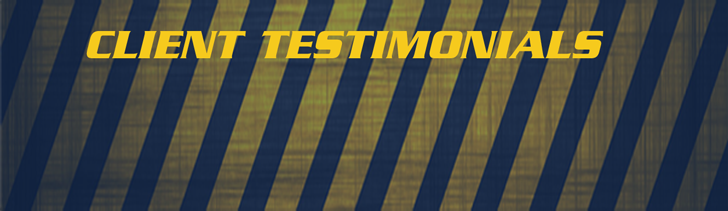
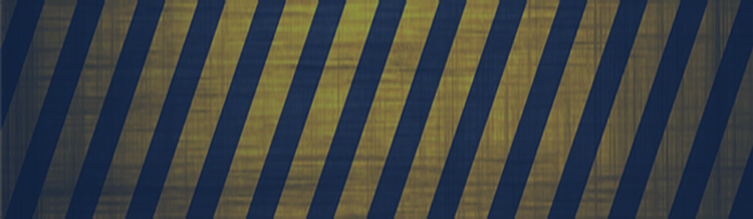
changes

Changed region(s): [[0.1209, 0.1422, 0.8462, 0.2844]]

diff --git a/style.css b/style.css
@@ -94,7 +94,7 @@ html, body {
 
 body {
 	background: #fff; /* Fallback for when there is no custom background color defined. */
-	overflow-x: hidden;
+	/*overflow-x: hidden;*/
 }
 
 article,
@@ -921,6 +921,11 @@ input[type="search"]:focus {
 	padding-top: 2em;
 }
 
+.header-phone-social h3 {
+	font-style: normal !important;
+	text-shadow: 1px 1px #000;
+}
+
 .social {
 	/*border: 1px solid #333;*/
 }
@@ -1343,11 +1348,22 @@ h3.panel-title {
 .right-column .mission-statement {
 	background: url(images/testimonials.png) no-repeat;
 	background-size: 100%;
-	height: 211px;
+	height: 175px;
+	/*height: 100%;*/
 	text-align: center;
+	font-size: 1.3em;
 	border: 1px solid #333;
 	color: #ffffff;
-	padding-top: 6em;
+	/*padding-top: 6em;*/
+	/*overflow: visible;*/
+}
+
+.right-column .mission-statement h2 {
+	color: #f6ca1d !important;
+}
+
+.mission {
+	height: auto;
 }
 
 .home-services {
@@ -1404,11 +1420,28 @@ h3.panel-title {
 	position: absolute;
 }
 
+.sidebar-links h2:hover {
+	color: #ba1f29 !important;
+}
+
 .sidebar-links .contractors h2 {
 	/*background: url(images/sidebar-links-contractor.png) no-repeat 0 -20px;*/
 	left: 25%;
 	top: 34%;
 	z-index: 100;
+}
+
+.sidebar-links .craftsmen h2 {
+	left: 25%;
+	top: 28%;
+	width: 90%;
+	z-index: 101;
+}
+
+.sidebar-links .find-a-career h2 {
+	left: 35%;
+	top: 32%;
+	z-index: 102;
 }
 
 .sidebar-wrap img {
@@ -1511,7 +1544,7 @@ h3.panel-title {
 /** DESKTOP **/
 @media screen and (min-width: 751px) {
 	.right-column .mission-statement h3 {
-		display: none;
+		/*display: none;*/
 	}
 }
 
@@ -1614,6 +1647,43 @@ h3.panel-title {
 		background-color: #000326;
 		background-image: none;
 		padding-top: 0;
+	}
+
+	/** INTERIOR PAGES **/
+
+	article {
+		position: relative !important;
+	}
+
+	.entry-footer {
+		position: fixed !important;
+		bottom: 0;
+	}
+
+	.sidebar-wrap {
+		border: none;
+		padding-top: 2em;
+		margin: 0;
+	}
+	.sidebar-links a {
+		height: auto;
+		min-height: 100%;
+	}
+
+	.sidebar-links h2 {
+		font-size: 0.7em;
+	}
+
+	.sidebar-links .craftsmen h2 {
+		left: 20%;
+		top: 30%;
+		width: 90%;
+	}
+
+
+	.sidebar-links .find-a-career h2 {
+		left: 35%;
+		top: 34%;
 	}
 
 	/** FOOTER **/

diff --git a/content-page.php b/content-page.php
@@ -26,22 +26,25 @@
 		</div><!-- .entry-content -->
 		<footer class="entry-footer">
 			<?php edit_post_link( __( 'Edit', 'csi2' ), '<span class="edit-link">', '</span>' ); ?>
+
+			<div class="content-footer-caption">
+
+				<img src="<?php bloginfo('template_directory') ?>/images/content-footer-caption.png">
+
+			</div>
+
 		</footer><!-- .entry-footer -->
 	</article><!-- #post-## -->
 
-	<div class="content-footer-caption">
-
-		<img src="<?php bloginfo('template_directory') ?>/images/content-footer-caption.png">
+	
 
 	</div>
 
-	</div>
-
-	<div class="col-md-4 sidebar-wrap">
+	<div class="col-md-4 col-xs-12 sidebar-wrap">
 
 		<div class="sidebar-links">
 
-			<a href="<?php echo get_home_url() ?>/about/the-company/" class="contractors">
+			<a href="<?php echo get_home_url() ?>/contractors/" class="contractors">
 
 				<h2>Contractor Support</h2>
 
@@ -49,13 +52,17 @@
 
 			</a>
 
-			<a href="<?php echo get_home_url() ?>/about/the-company/">
+			<a href="<?php echo get_home_url() ?>/need-skilled-tradespeople-now/" class="craftsmen">
+
+				<h2>Find Skilled Craftsmen</h2>
 
 				<img src="<?php bloginfo('template_directory') ?>/images/sidebar-links-craftsmen.png">
 
 			</a>
 
-			<a href="<?php echo get_home_url() ?>/about/the-company/">
+			<a href="<?php echo get_home_url() ?>/skilled-trades-people/skilled-trades-job-openings/" class="find-a-career">
+
+				<h2>Find A Career</h2>
 
 				<img src="<?php bloginfo('template_directory') ?>/images/sidebar-links-find-a-career.png">
 

diff --git a/page-home.php b/page-home.php
@@ -197,16 +197,13 @@
 
 				</div>
 
-				<div class="mission_statement">
+				<div class="mission-statement">
 
-					<h3>Our Mission Statement</h3>
+					<h2>Our Mission Statement</h2>
 
-					<div class="mission col-xs-10">
+					<div class="mission col-xs-10 col-xs-offset-1">
 
-						<p><?php the_cfc_field('testimonial', 'testimonial'); ?></p>
-
-						<p><?php the_cfc_field('testimonial', 'name'); ?>, 
-								<?php the_cfc_field('testimonial', 'company'); ?></p>
+						<p><?php the_cfc_field('mission', 'mission-statement'); ?></p>
 
 					</div>
 

diff --git a/header.php b/header.php
@@ -100,6 +100,8 @@
 
 					<img src="<?php bloginfo('template_directory') ?>/images/header-phone-link.png" alt="1-888-639-0388" title="1-888-639-0388">
 
+					<!-- <h3>1.888.639.0388</h3> -->
+
 				</a>
 
 			</div>
